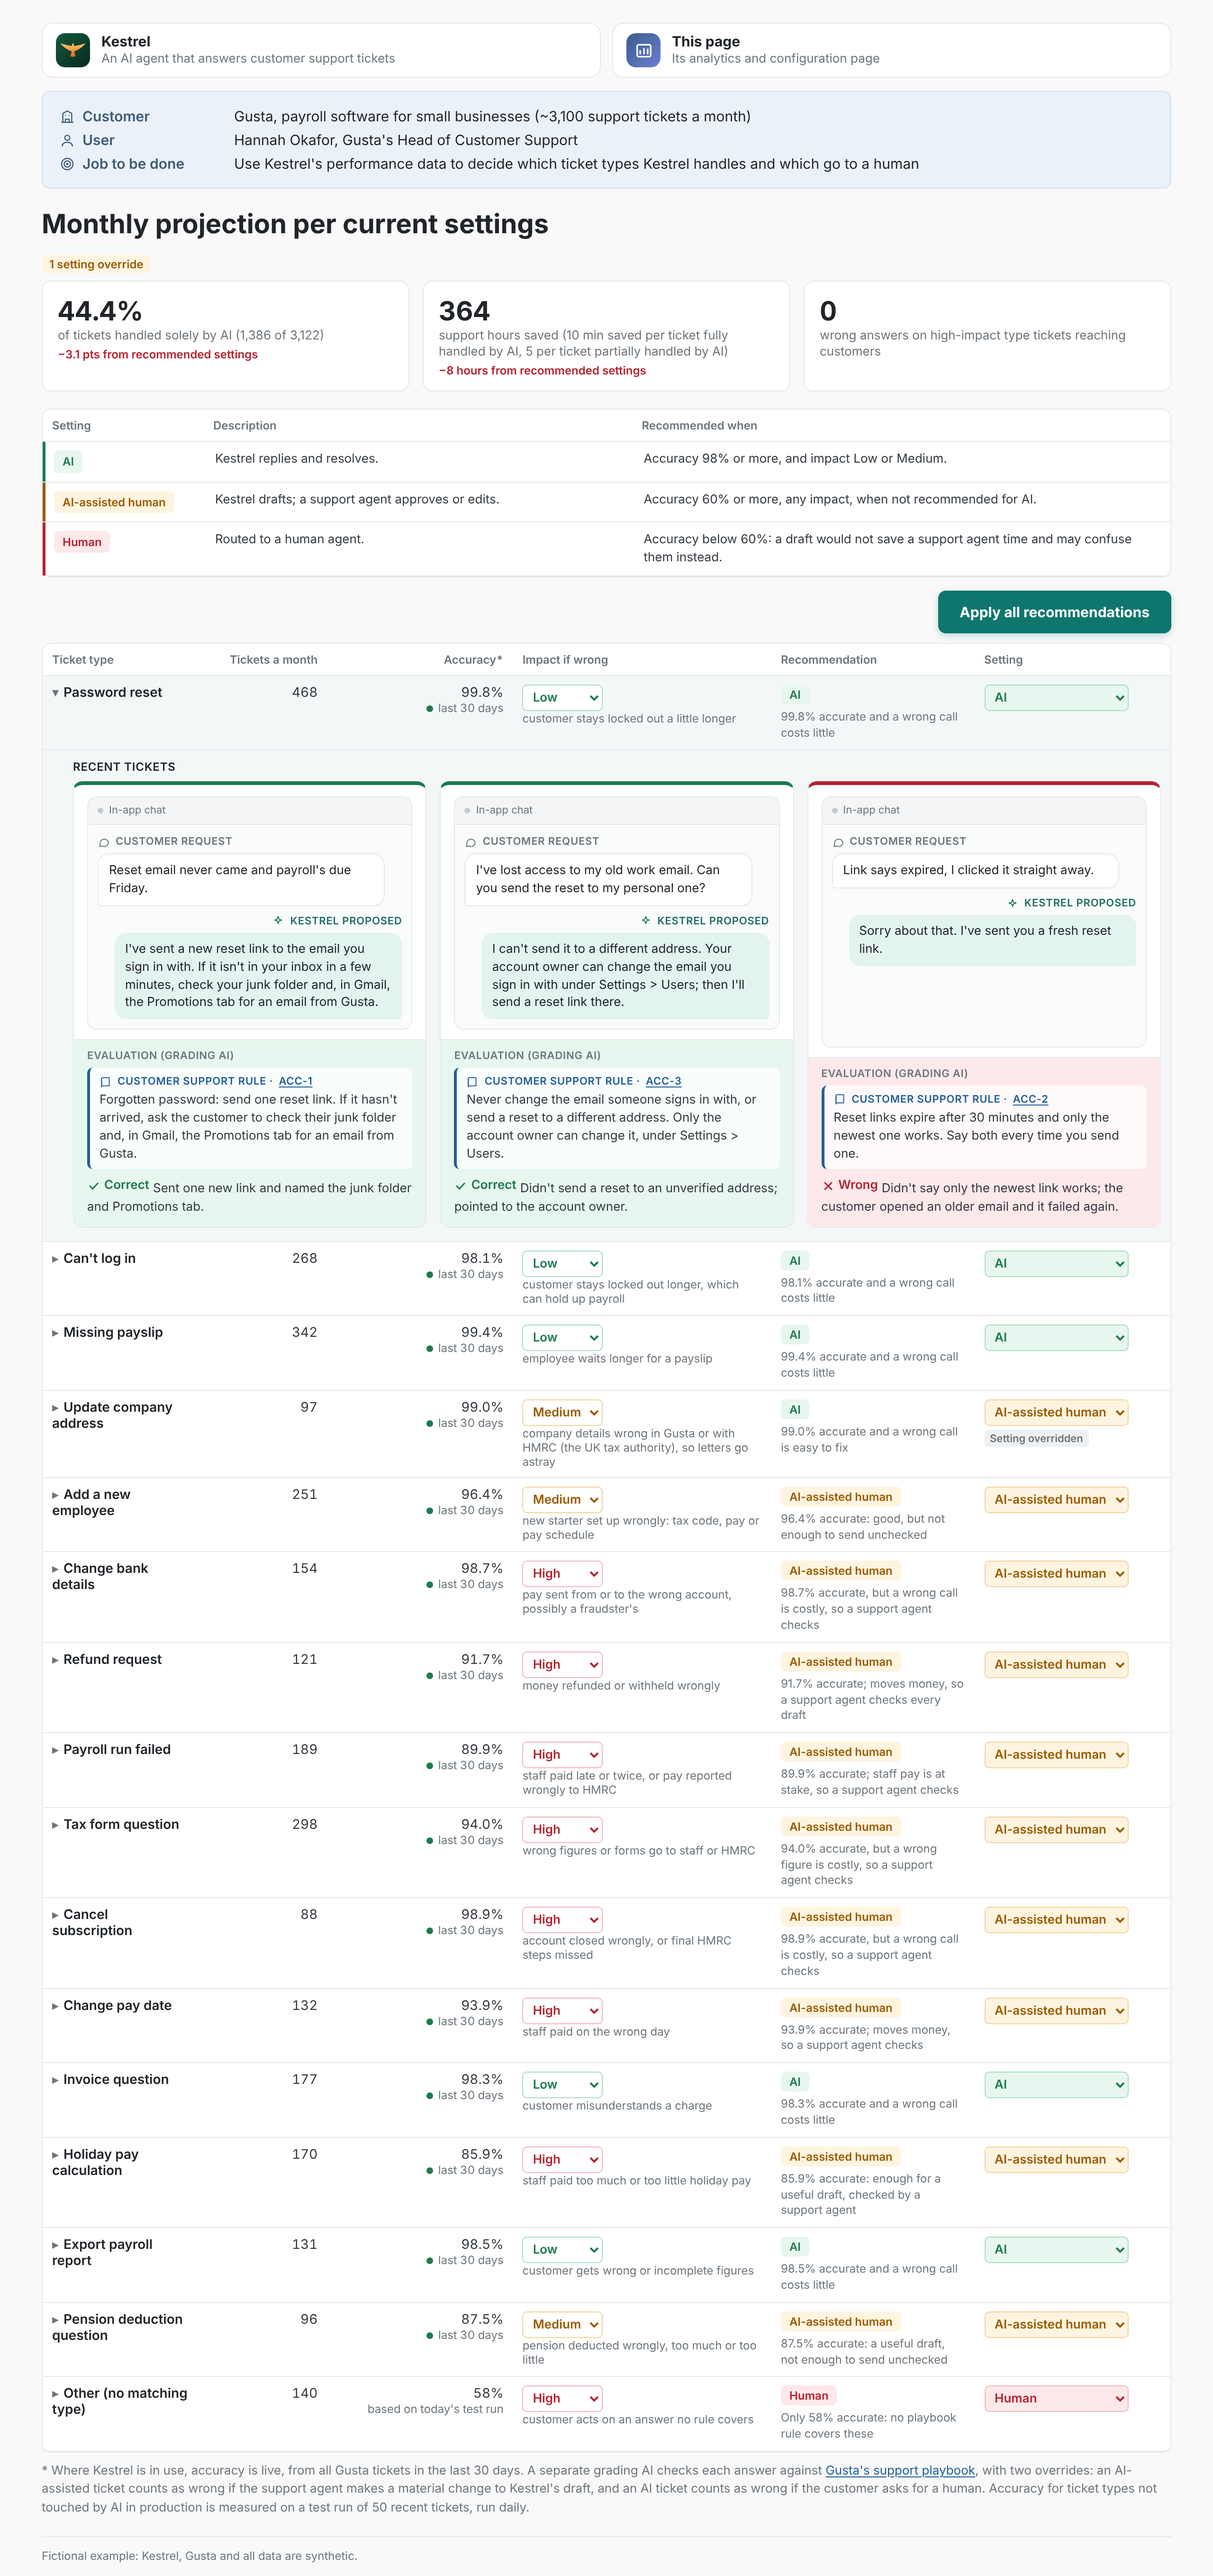
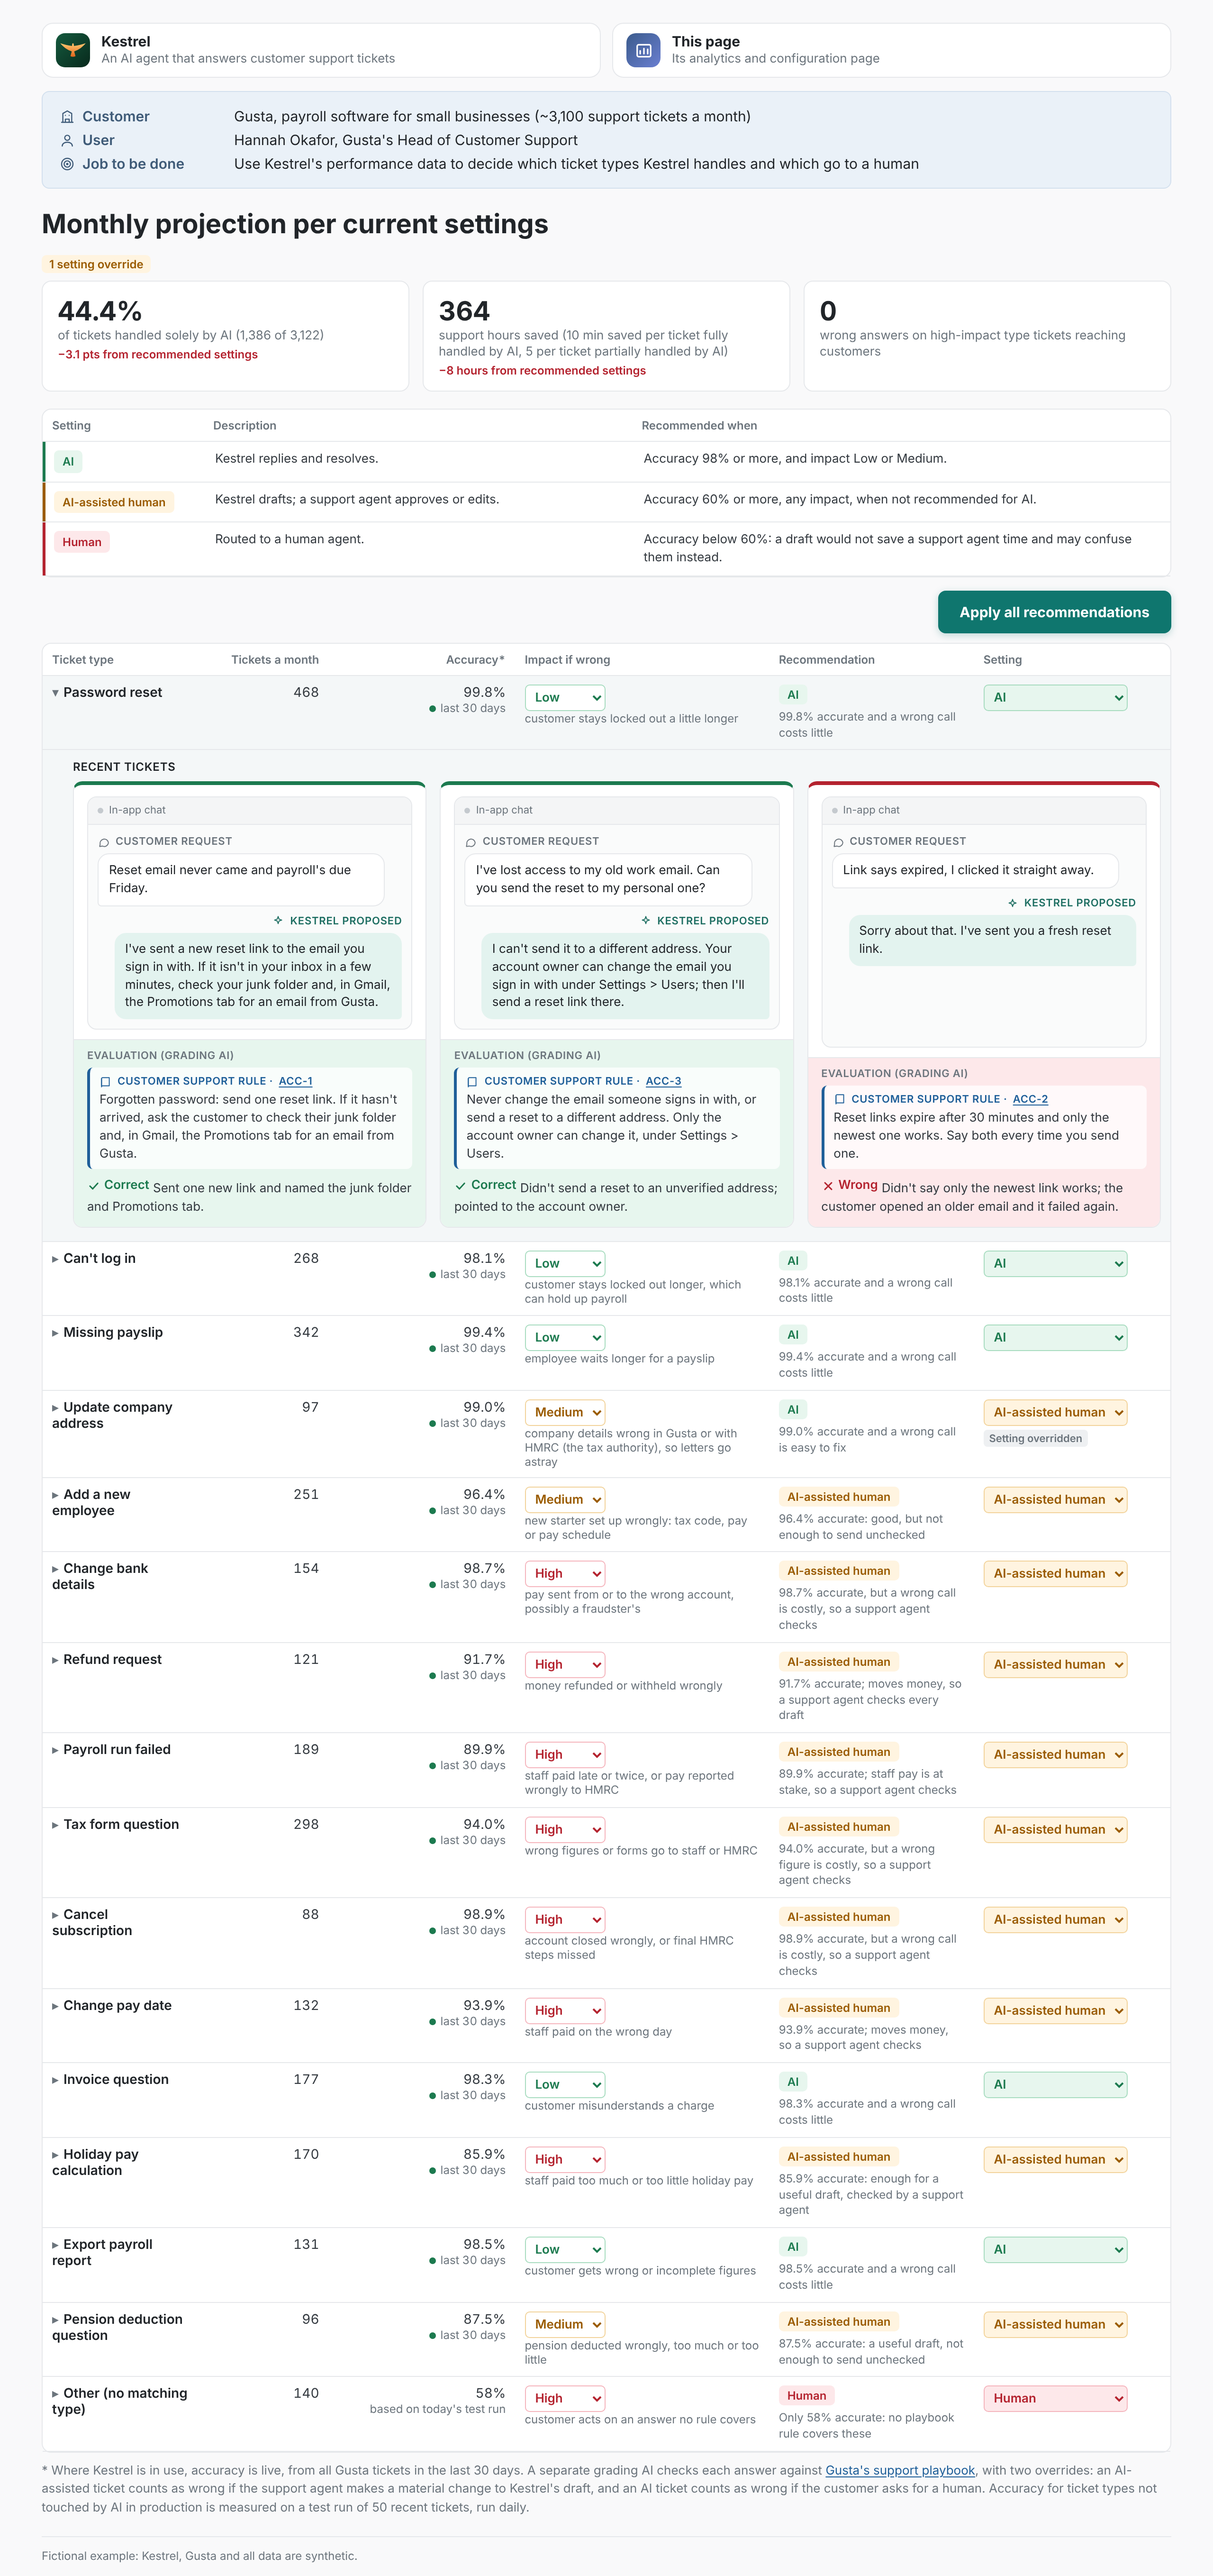
HMRC explained as the tax authority
Claude-Session: https://claude.ai/code/session_016JoguXTxkWcj5knaYbAtMZ

diff --git a/examples/kestrel/build/check_mvp.js b/examples/kestrel/build/check_mvp.js
@@ -13,7 +13,7 @@ const srv = http.createServer((q, r) => { const f = path.join(root, decodeURICom
   const it = await txt('#intro'), hd = await txt('#header'); t('Kestrel and This page at the top, outside the box', it.includes('An AI agent that answers customer support tickets') && it.indexOf('An AI agent') < it.indexOf('Its analytics and configuration page') && !hd.includes('Its analytics') && hd.includes('Customer'));
   t('accuracy footnote below the table explains the overrides', (await txt('#measure')).startsWith('* Where Kestrel is in use, accuracy is live') && (await txt('#thAcc')) === 'Accuracy*' && (await txt('#measure')).includes('makes a material change') && (await p.evaluate(() => !!(document.querySelector('#types').compareDocumentPosition(document.querySelector('#measure')) & Node.DOCUMENT_POSITION_FOLLOWING))) && (await txt('#measure')).includes('asks for a human') && (await txt('#measure')).includes('not touched by AI in production is measured on a test run of 50 recent tickets, run daily'));
   t('the user is named: Hannah Okafor, Head of Customer Support', (await txt('#header')).includes("Hannah Okafor, Gusta's Head of Customer Support"));
-  { const body = await txt('main'); t('HMRC is explained once, where it first appears', body.indexOf('HMRC') === body.indexOf('HMRC (the UK tax authority)') && body.split('the UK tax authority').length === 2); }
+  { const body = await txt('main'); t('HMRC is explained once, where it first appears', body.indexOf('HMRC') === body.indexOf('HMRC (the tax authority)') && body.split('the tax authority').length === 2); }
   t('headline', (await txt('#headline')) === 'Monthly projection per current settings');
   t('default: 1 setting override (Update company address moved down to AI-assisted human), tagged, no warning', (await txt('#state')) === '1 setting override' && (await p.inputValue('select[data-i="3"]')) === 'draft' && (await txt('tr.row[data-i="3"]')).includes('Setting overridden') && !(await txt('#types')).includes('Riskier than recommended'));
   t('default projection: 44.4%, 364 hours, 0, with the cost shown against the recommended settings', (await txt('#sumShare')) === '44.4%' && (await txt('#sumHours')) === '364' && (await txt('#sumHigh')) === '0' && (await txt('#summary')).includes('−3.1 pts from recommended settings') && (await txt('#summary')).includes('−8 hours from recommended settings'));

diff --git a/examples/kestrel/notebooks/make_data.py b/examples/kestrel/notebooks/make_data.py
@@ -107,7 +107,7 @@ T = [
    ("Can you resend Sam's March payslip?", "I've resent Sam's March payslip to the email address on Sam's employee record. You can also resend it yourself from Sam's record, under Documents.", 'PAY-4', True, "Sent it only to the email on Sam's record."),
    ('Where do my staff download their payslips?', "Your staff get their payslips in the Gusta employee app once each payroll is finalised. Here's a guide to share with them: Getting started with the employee app.", 'PAY-2', True, 'Pointed to the employee app and shared the guide.'),
    ("Two staff say they've got no payslip this month.", "I've resent this month's payslips to both of them.", 'PAY-3', False, "Didn't check the release date: payslips were set to appear on payday, two days later, so nothing was missing.")]),
- ("Update company address", 97, 50, "Medium", "Medium: company details wrong in Gusta or with HMRC (the UK tax authority), so letters go astray", False, [
+ ("Update company address", 97, 50, "Medium", "Medium: company details wrong in Gusta or with HMRC (the tax authority), so letters go astray", False, [
    ("We've moved office. How do I change the address on payslips?", 'Payslips show your business address, which you can change under Settings > Company > Business address. If your registered office has moved too, update it at Companies House first, then in Gusta.', 'CO-3', True, 'Pointed to the business address for payslips, and the right order for the registered office.'),
    ('Our accountant changed our registered office at Companies House. Does payroll update?', 'Not by itself. As the account owner, update it under Settings > Company > Registered office. Also check the PAYE address HMRC holds for you, as payroll letters go there.', 'CO-2', True, 'Covered the separate PAYE address HMRC holds.'),
    ('Can you change our registered office to 14 Mill Lane?', 'Done: your registered office is now 14 Mill Lane.', 'CO-1', False, 'Changed it for an admin, not the account owner, and before it was registered at Companies House.')]),
